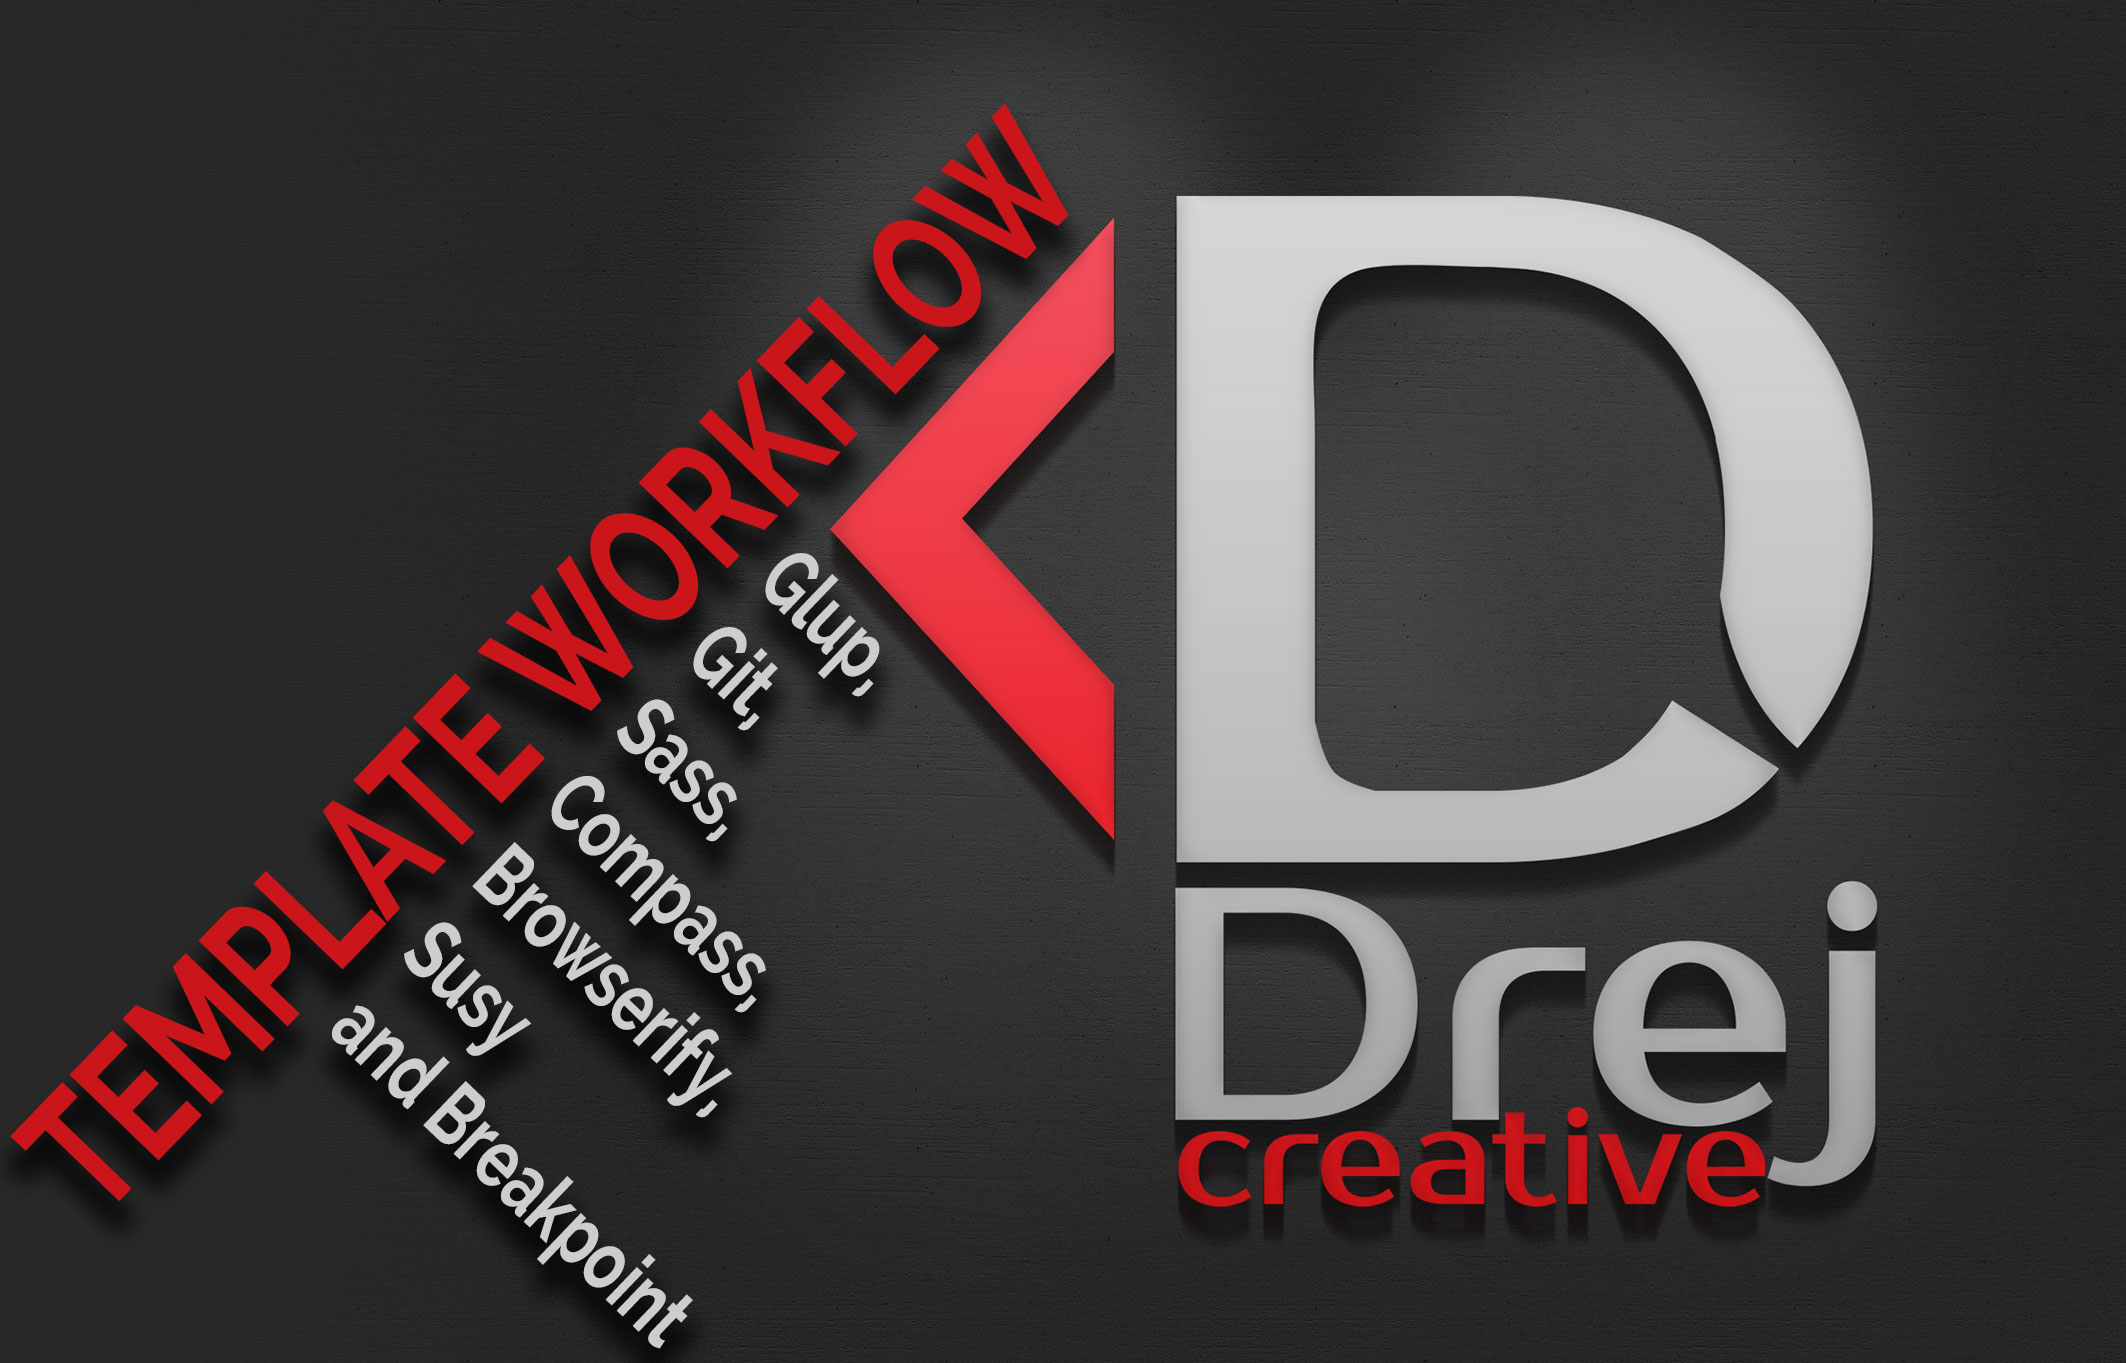
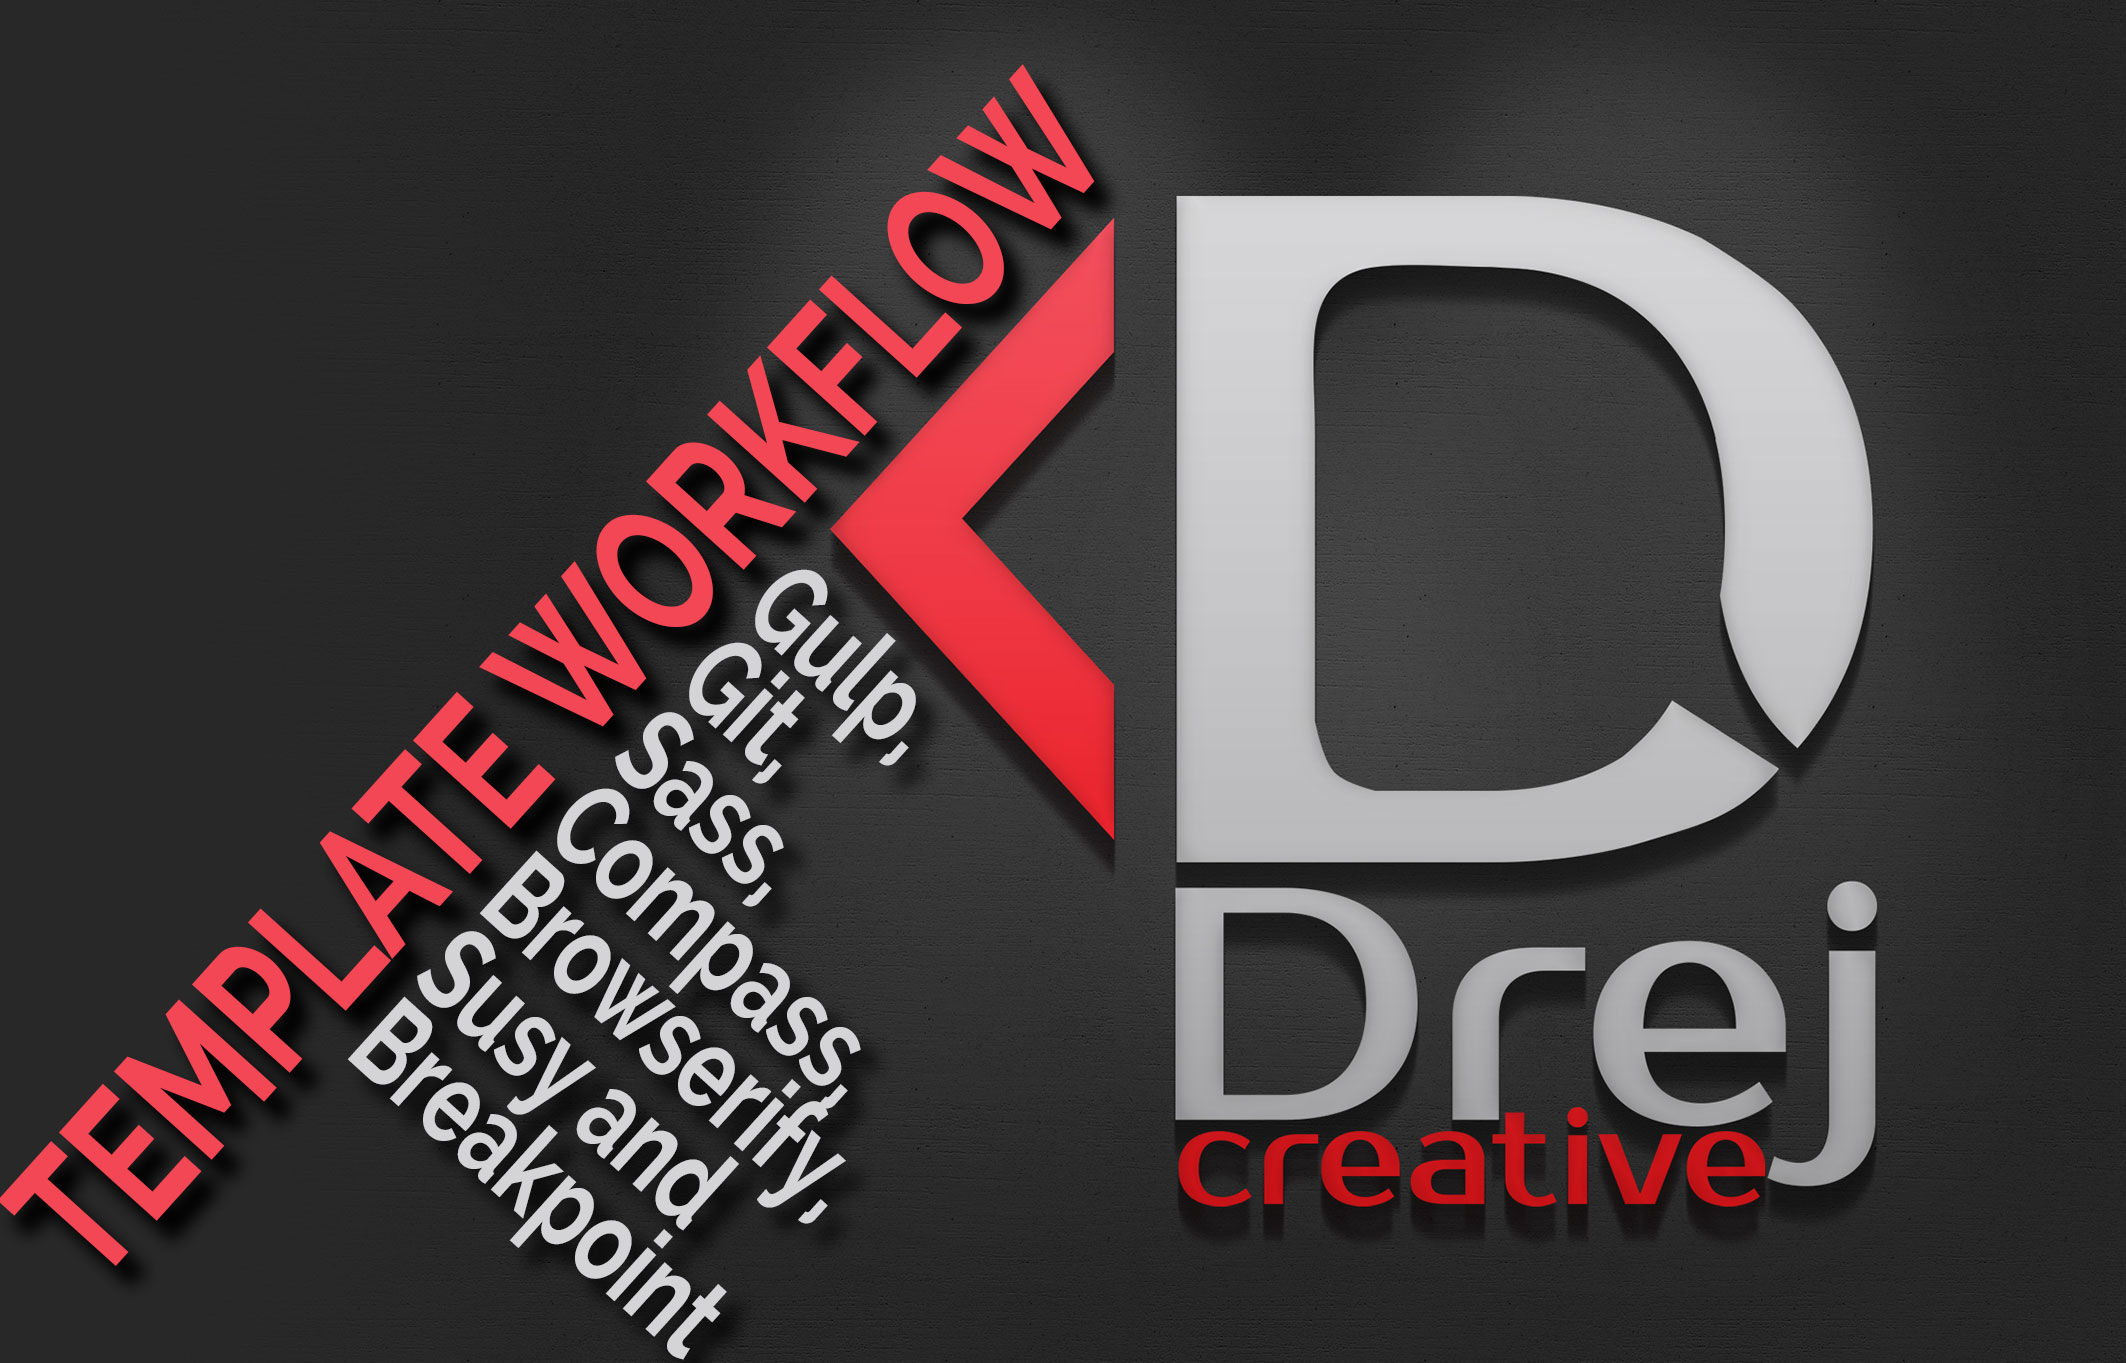
update to readme and image

Changed region(s): [[0.0, 0.0308, 0.5278, 1.0]]

diff --git a/README.md b/README.md
@@ -1,7 +1,7 @@
-# A simple template for workflow with Glup, Git, Sass, Compass, Browserify, Susy and Breakpoint
-![A simple template for workflow with Glup, Git, Sass, Compass, Browserify, Susy and Breakpoint](img.jpg)
+# A simple template for workflow with Gulp, Git, Sass, Compass, Browserify, Susy and Breakpoint
+![A simple template for workflow with Gulp, Git, Sass, Compass, Browserify, Susy and Breakpoint](img.jpg)
 
-This is my template for simple Glup workflow with Git, Sass, Compass, Browserify, Susy and Breakpoint. This template give you few thing. First, glup compile your Sass into css, then you can automatically minify your css and javascripts, then give you livereload of your web project in browser.
+This is my template for simple Gulp workflow with Git, Sass, Compass, Browserify, Susy and Breakpoint. This template give you few thing. First, Gulp compile your Sass into css. Secound you can automatically minify your css and javascripts, and then Gulp give you livereload of your web project in browser.
 Susy and Breakpoint give you simple and custom responsive framework.
 
 ##Instructions
